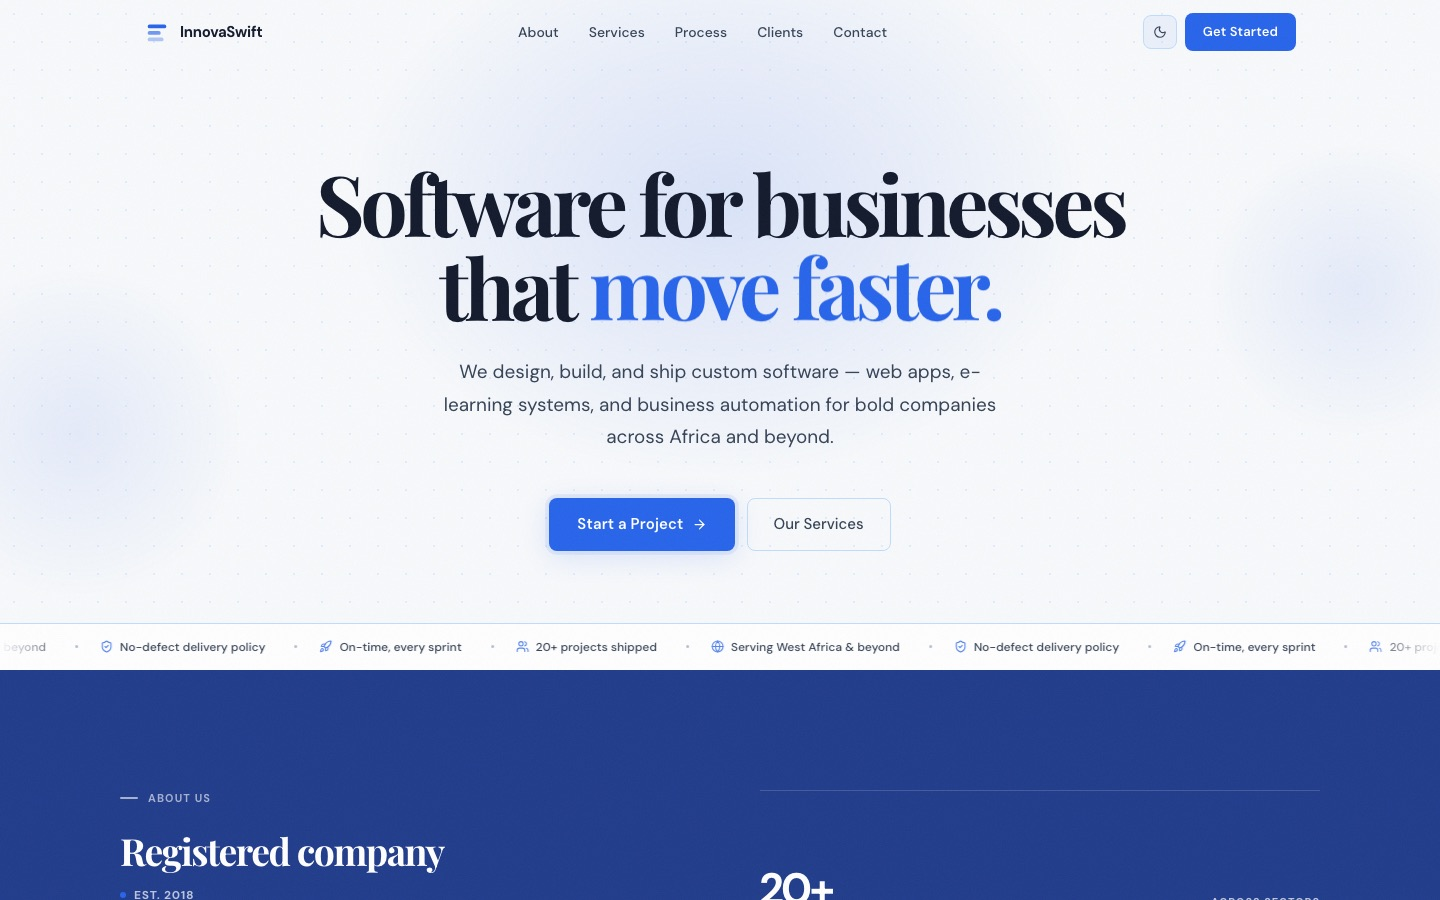
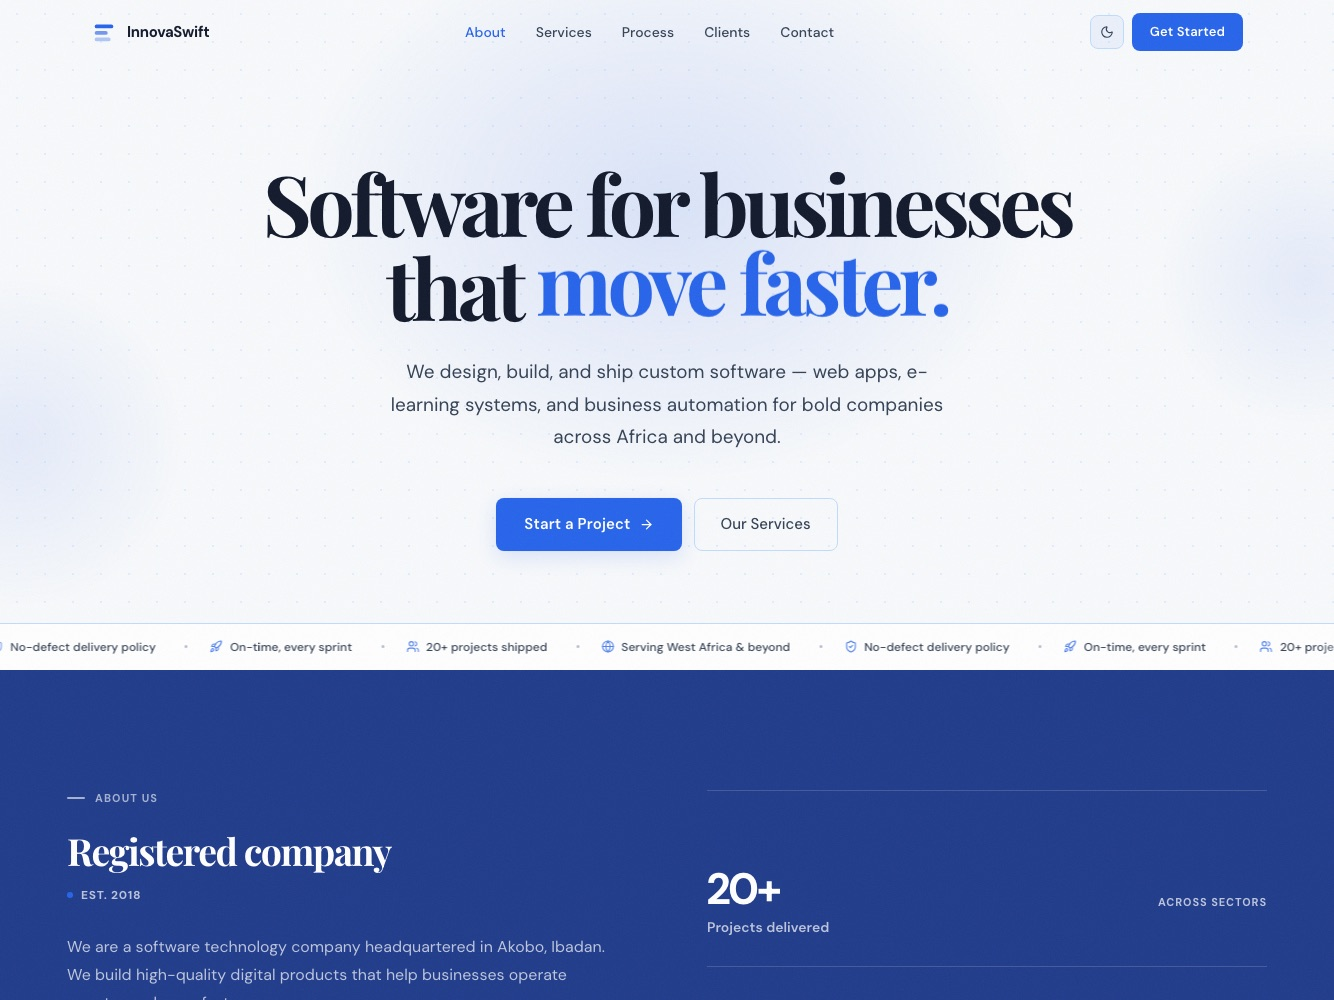
fix: Lagos boards in order, feature InnovaSwift with fresh screenshot, remove build line from footer

diff --git a/src/data/projects.ts b/src/data/projects.ts
@@ -121,6 +121,21 @@ export const PROJECTS: Project[] = [
     ],
   },
   {
+    slug: 'innovaswift',
+    title: 'InnovaSwift Technologies: Company Website',
+    description:
+      'Live website for InnovaSwift Technologies, a registered software company in Ibadan (est. 2018). Services, a four-phase delivery process, clients and an enquiry flow, with an editorial serif headline, a trust ticker and light and dark themes.',
+    tech: ['React', 'Vite', 'TypeScript', 'Tailwind CSS', 'Lenis'],
+    category: 'frontend',
+    role: 'Frontend Developer',
+    impact: 'Live at innovaswift.com.ng • Light and dark themes • Services, process and enquiry flow',
+    live: 'https://innovaswift.com.ng/',
+    private: true,
+    featured: true,
+    image: innovaswiftImg,
+    tags: ['frontend'],
+  },
+  {
     slug: 'lagos-verified-listings',
     title: 'Verified Listings for Lagos: System Design',
     description:
@@ -133,8 +148,8 @@ export const PROJECTS: Project[] = [
     featured: true,
     private: true,
     diagrams: [
-      { src: lagos2, caption: 'High-level design: one Fastify service, PostGIS, S3, Cognito and background jobs' },
       { src: lagos1, caption: 'Requirements: functional, non-functional and the MVP scale' },
+      { src: lagos2, caption: 'High-level design: one Fastify service, PostGIS, S3, Cognito and background jobs' },
       { src: lagos3, caption: 'Verification state machines, workflow and database-level constraints' },
       { src: lagos4, caption: 'Geo search on a low-data budget: PostGIS, SSR, small bundles, edge caching' },
       { src: lagos5, caption: 'Availability and the human bottleneck: SLOs, triggers and runbooks' },
@@ -312,18 +327,6 @@ export const PROJECTS: Project[] = [
     impact: '10k+ transactions handled • Zero double-spend incidents',
     private: true,
     tags: ['backend', 'security'],
-  },
-  {
-    slug: 'innovaswift',
-    title: 'InnovaSwift: Software Consultancy Website',
-    description: 'Marketing and enquiry site for a registered Nigerian software consultancy (est. 2018). Proof over promise, terse copy, Lenis smooth scroll.',
-    tech: ['React', 'Vite', 'TypeScript', 'Tailwind CSS', 'Lenis'],
-    category: 'frontend',
-    role: 'Frontend Developer',
-    live: 'https://innovaswift.com.ng/',
-    private: true,
-    image: innovaswiftImg,
-    tags: ['frontend'],
   },
   {
     slug: 'rekognition',

diff --git a/src/components/Footer.tsx b/src/components/Footer.tsx
@@ -53,14 +53,7 @@ const Footer = () => (
 
       </div>
 
-      <div className="mt-14 flex flex-wrap items-center justify-between gap-4 border-t border-white/10 pt-6 font-mono text-[12px] text-muted-foreground">
-        <span>
-          deployed from{' '}
-          <a href="https://github.com/Ayooluwabami/portfolio-web" target="_blank" rel="noopener noreferrer" className="text-accent-ink hover:underline">
-            {__BUILD__.branch}@{__BUILD__.sha}
-          </a>{' '}
-          · built {new Date(__BUILD__.builtAt).toLocaleDateString('en-GB', { day: '2-digit', month: 'short', year: 'numeric' })}
-        </span>
+      <div className="mt-14 flex flex-wrap items-center justify-end gap-4 border-t border-white/10 pt-6 font-mono text-[12px] text-muted-foreground">
         <span className="flex items-center gap-4">
           <button onClick={() => window.dispatchEvent(new Event('open-shortcuts'))} className="transition-colors hover:text-foreground">
             press <kbd className="rounded border border-white/15 px-1 text-foreground">?</kbd> for shortcuts
